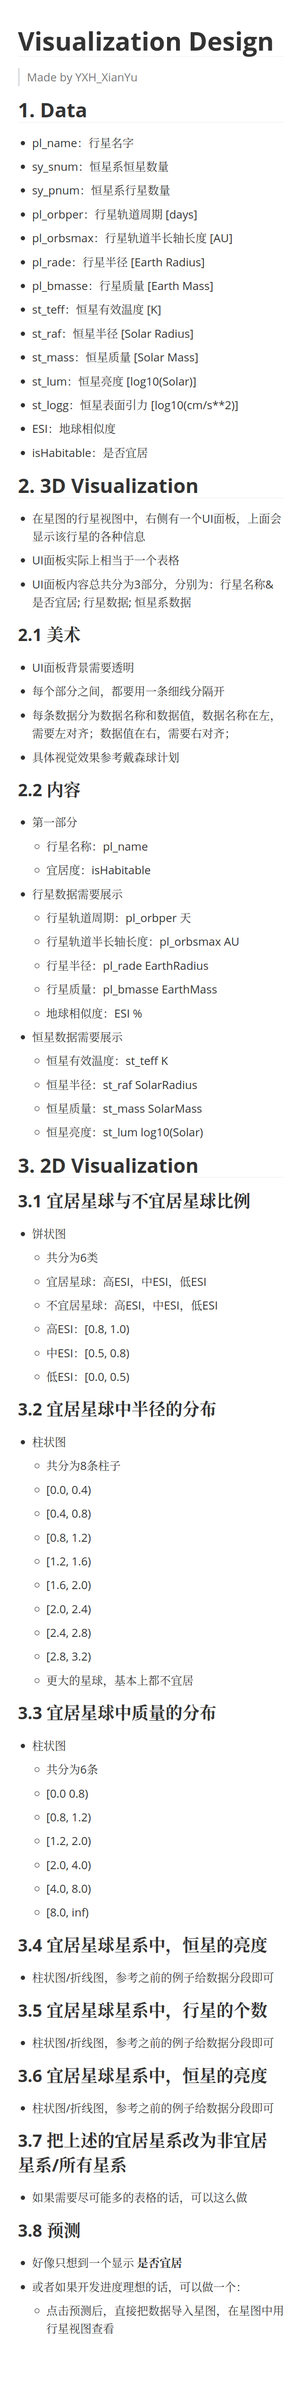
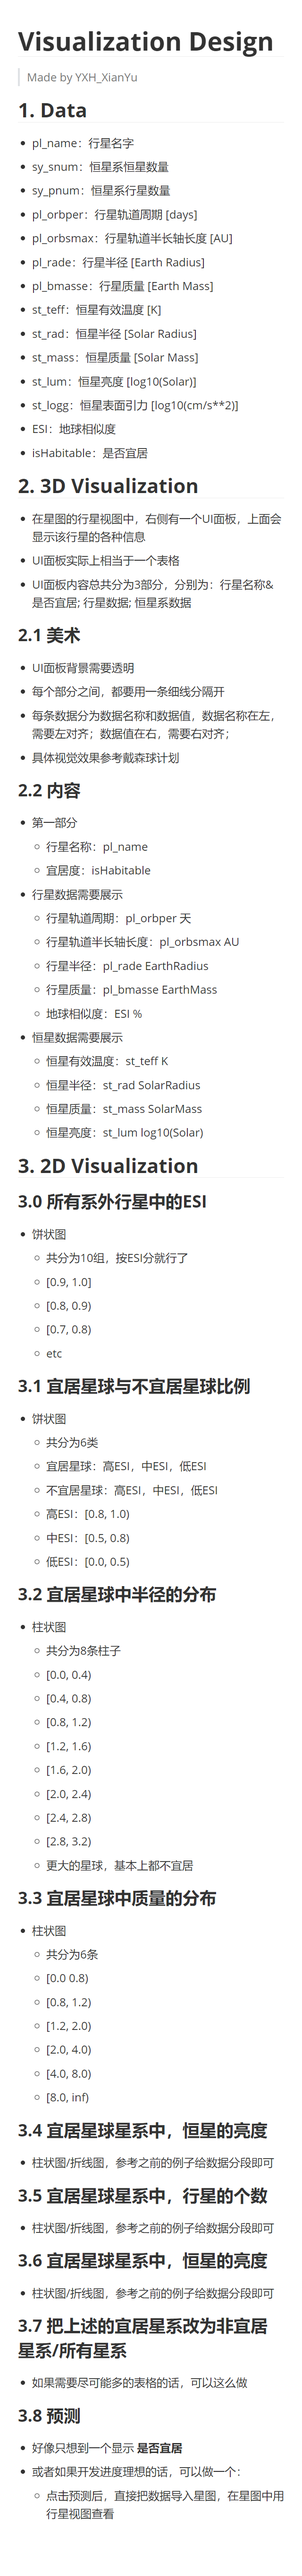
feat(renderer): 真实数据生成(若esi>=0.6，则用地球模型)

diff --git a/frontend/bluespace_front/src/starmap/src/starGenerator.ts b/frontend/bluespace_front/src/starmap/src/starGenerator.ts
@@ -151,6 +151,27 @@ class StarGenerator {
         let idx = 0;
         let loaderIdx = 0;
 
+        function generateStarShaderType(i: number): number {
+            let type = StarGenerator.randomRange(0, 1)
+            return (type <= 0.002) ? (Planet.STAR_SHADER_TYPE_O) :
+                   (type <= 0.004) ? (Planet.STAR_SHADER_TYPE_B) :
+                   (type <= 0.012) ? (Planet.STAR_SHADER_TYPE_A) :
+                   (type <= 0.060) ? (Planet.STAR_SHADER_TYPE_F) :
+                   (type <= 0.143) ? (Planet.STAR_SHADER_TYPE_G) :
+                   (type <= 0.242) ? (Planet.STAR_SHADER_TYPE_K) :
+                   (Planet.STAR_SHADER_TYPE_M)
+        }
+
+        function generatePlanetTexture(i: number): number {
+            const esi = PlanetsDataLoader.getInstance().query(i).ESI
+            if(esi >= 0.6) {
+                return Planet.PLANET_TEXTURE_EARTH
+            } else {
+                // earth0, other1~max, so i need to generate a value between [1, max]
+                return Math.floor(Math.random() * (Planet.PLANET_TEXTURE_MAX) + 1)
+            }
+        }
+
         planets[idx] = Planet.createPlanet(
             {x:0, y:0, z:0},
             {x:0, y:0, z:0},
@@ -190,8 +211,6 @@ class StarGenerator {
                     z: origin.y + delta.z,
                 }
 
-                let type = StarGenerator.randomRange(0, 1)
-
                 planets[idx] = Planet.createPlanet(
                     position, {
                         x: StarGenerator.randomRange(-3.14, 3.14),
@@ -202,14 +221,8 @@ class StarGenerator {
                         y: StarGenerator.randomRange(-1.0, 1.0) * StarGenerator.COMMON_SPEED,
                         z: StarGenerator.randomRange(-1.0, 1.0) * StarGenerator.COMMON_SPEED,
                     },
-                    (type <= 0.002) ? (Planet.STAR_SHADER_TYPE_O) :
-                    (type <= 0.004) ? (Planet.STAR_SHADER_TYPE_B) :
-                    (type <= 0.012) ? (Planet.STAR_SHADER_TYPE_A) :
-                    (type <= 0.060) ? (Planet.STAR_SHADER_TYPE_F) :
-                    (type <= 0.143) ? (Planet.STAR_SHADER_TYPE_G) :
-                    (type <= 0.242) ? (Planet.STAR_SHADER_TYPE_K) :
-                    (Planet.STAR_SHADER_TYPE_M),
-                    Math.floor(Math.random() * (Planet.PLANET_TEXTURE_MAX + 1)),
+                    generateStarShaderType(loaderIdx),
+                    generatePlanetTexture(loaderIdx),
                     loaderIdx,
                 )
                 loaderIdx = (loaderIdx + 1) % PlanetsDataLoader.getInstance().length()

diff --git a/frontend/bluespace_front/src/starmap/src/renderer.ts b/frontend/bluespace_front/src/starmap/src/renderer.ts
@@ -142,7 +142,7 @@ class BlueSpaceRenderer {
         const that = this
 
         // Load Planets Data
-        this.planets = await StarGenerator.randomGalaxyStar(this.numOfPlanets)
+        this.planets = await StarGenerator.trueRandomGalaxyStar(this.numOfPlanets)
 
         this.camera.update()
 
@@ -230,6 +230,13 @@ class BlueSpaceRenderer {
         this.haveRun = true;
     }
 
+    /**
+     * 切换渲染模式（切换视图）
+     * 0：银河系视图
+     * 1：行星视图
+     * @param targetMode 目标模式
+     * @param targetPlanet 目标行星（如果是行星视图，需要有这个参数）
+     */
     async switchMode(targetMode: number, targetPlanet?: number) {
         if(!this.haveRun) {
             throw new Error("Renderer not run.") 
@@ -881,6 +888,7 @@ class BlueSpaceRenderer {
     }
 
     // ===== ===== ===== Post-process ===== ===== =====
+
     /**
      * 后处理相关组件的初始化
      */

diff --git a/frontend/bluespace_front/src/starmap/src/planet.ts b/frontend/bluespace_front/src/starmap/src/planet.ts
@@ -24,6 +24,8 @@ class Planet {
      * Star Shader Types
      * 
      * 恒星共有7种，分别为OBAFGKM
+     * 除了恒星，还有黑洞和公用行星
+     * 因为行星只需要行星视图下渲染一个，所以我们不需要多个行星
      */
     static readonly STAR_SHADER_TYPE_MIN:       number = 0
     static readonly STAR_SHADER_TYPE_MAX:       number = 8

diff --git a/frontend/bluespace_front/src/starmap/src/planetsDataLoader.ts b/frontend/bluespace_front/src/starmap/src/planetsDataLoader.ts
@@ -6,7 +6,7 @@ class PlanetsDataLoader {
     private constructor() {}
     private static instance: PlanetsDataLoader = new PlanetsDataLoader()
     private haveSetup: boolean = false
-    
+
     public static getInstance() {
         return this.instance
     }

diff --git a/document/visualization.md b/document/visualization.md
@@ -52,11 +52,20 @@
 
 * 恒星数据需要展示
   * 恒星有效温度：st_teff K
-  * 恒星半径：st_raf SolarRadius
+  * 恒星半径：st_rad SolarRadius
   * 恒星质量：st_mass SolarMass
   * 恒星亮度：st_lum log10(Solar)
 
 ## 3. 2D Visualization
+
+### 3.0 所有系外行星中的ESI
+
+* 饼状图
+  * 共分为10组，按ESI分就行了
+  * [0.9, 1.0]
+  * [0.8, 0.9)
+  * [0.7, 0.8)
+  * etc
 
 ### 3.1 宜居星球与不宜居星球比例
 
